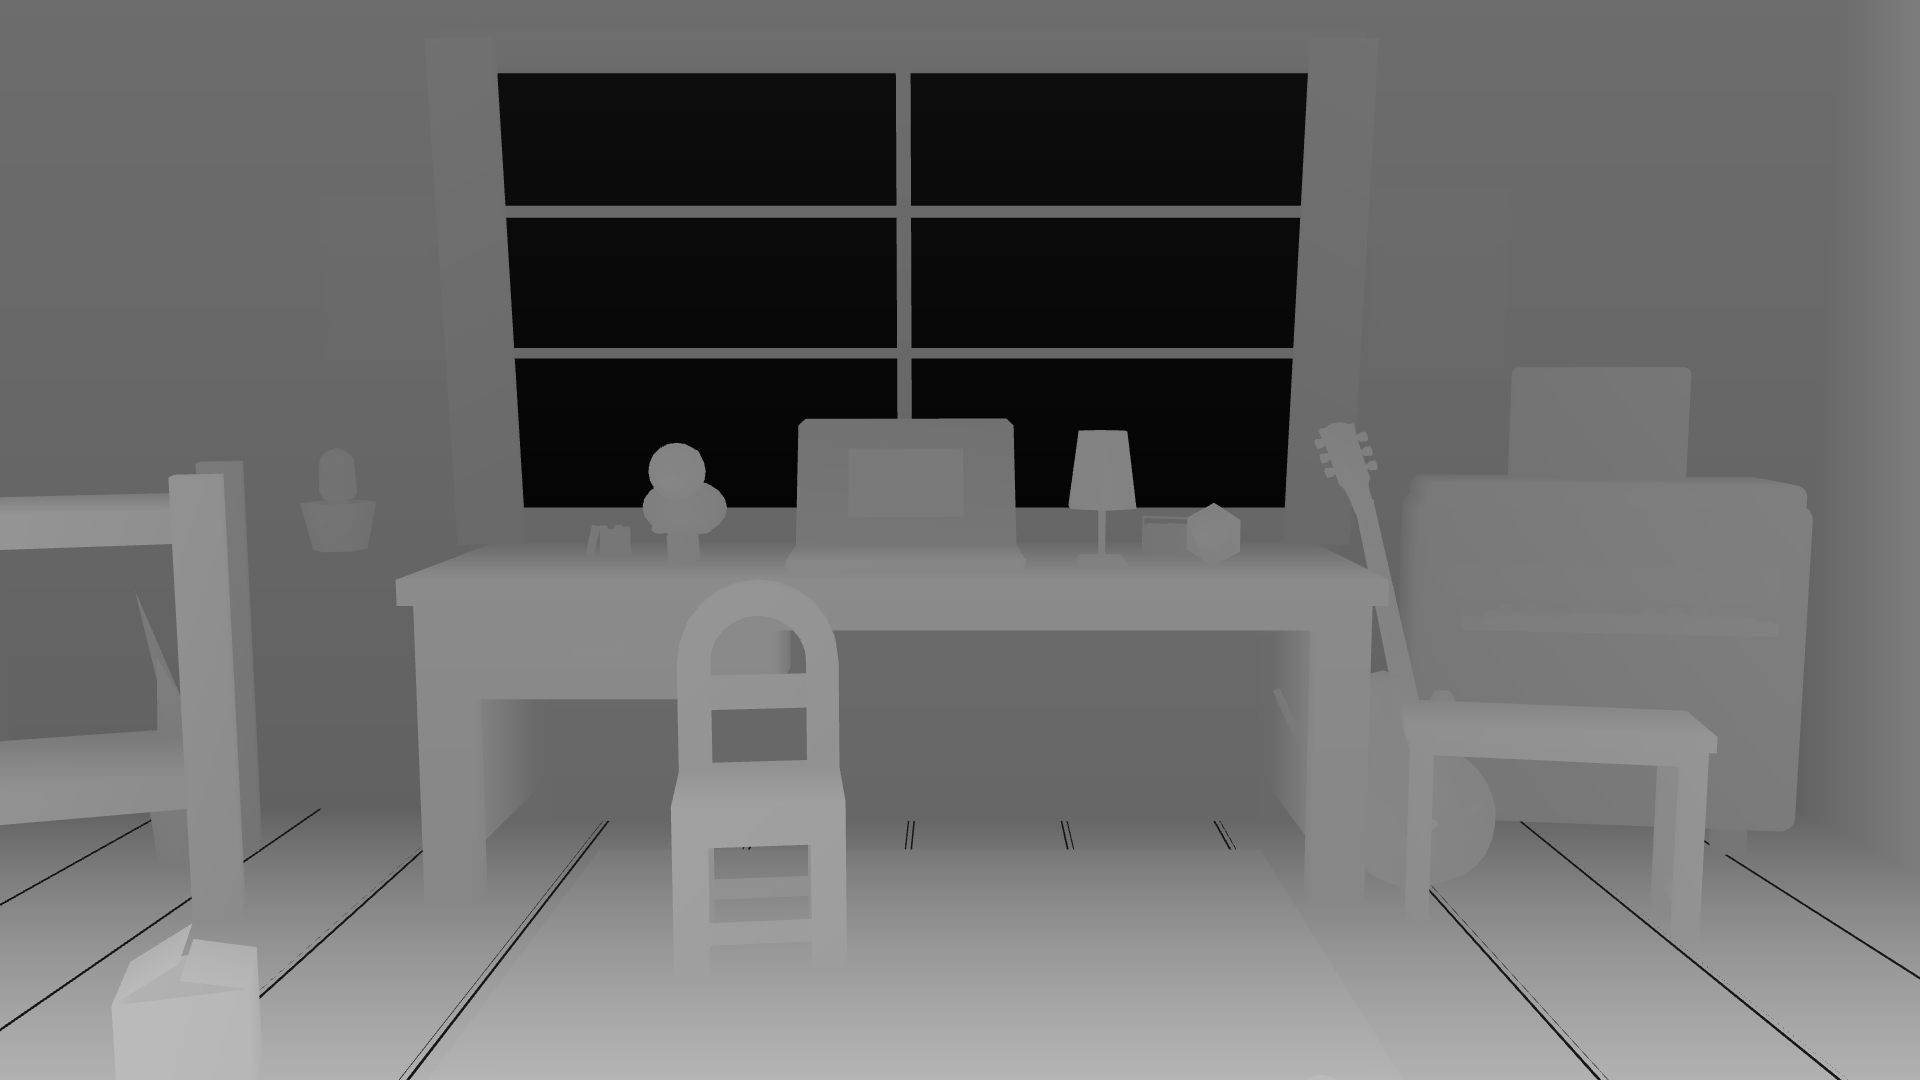
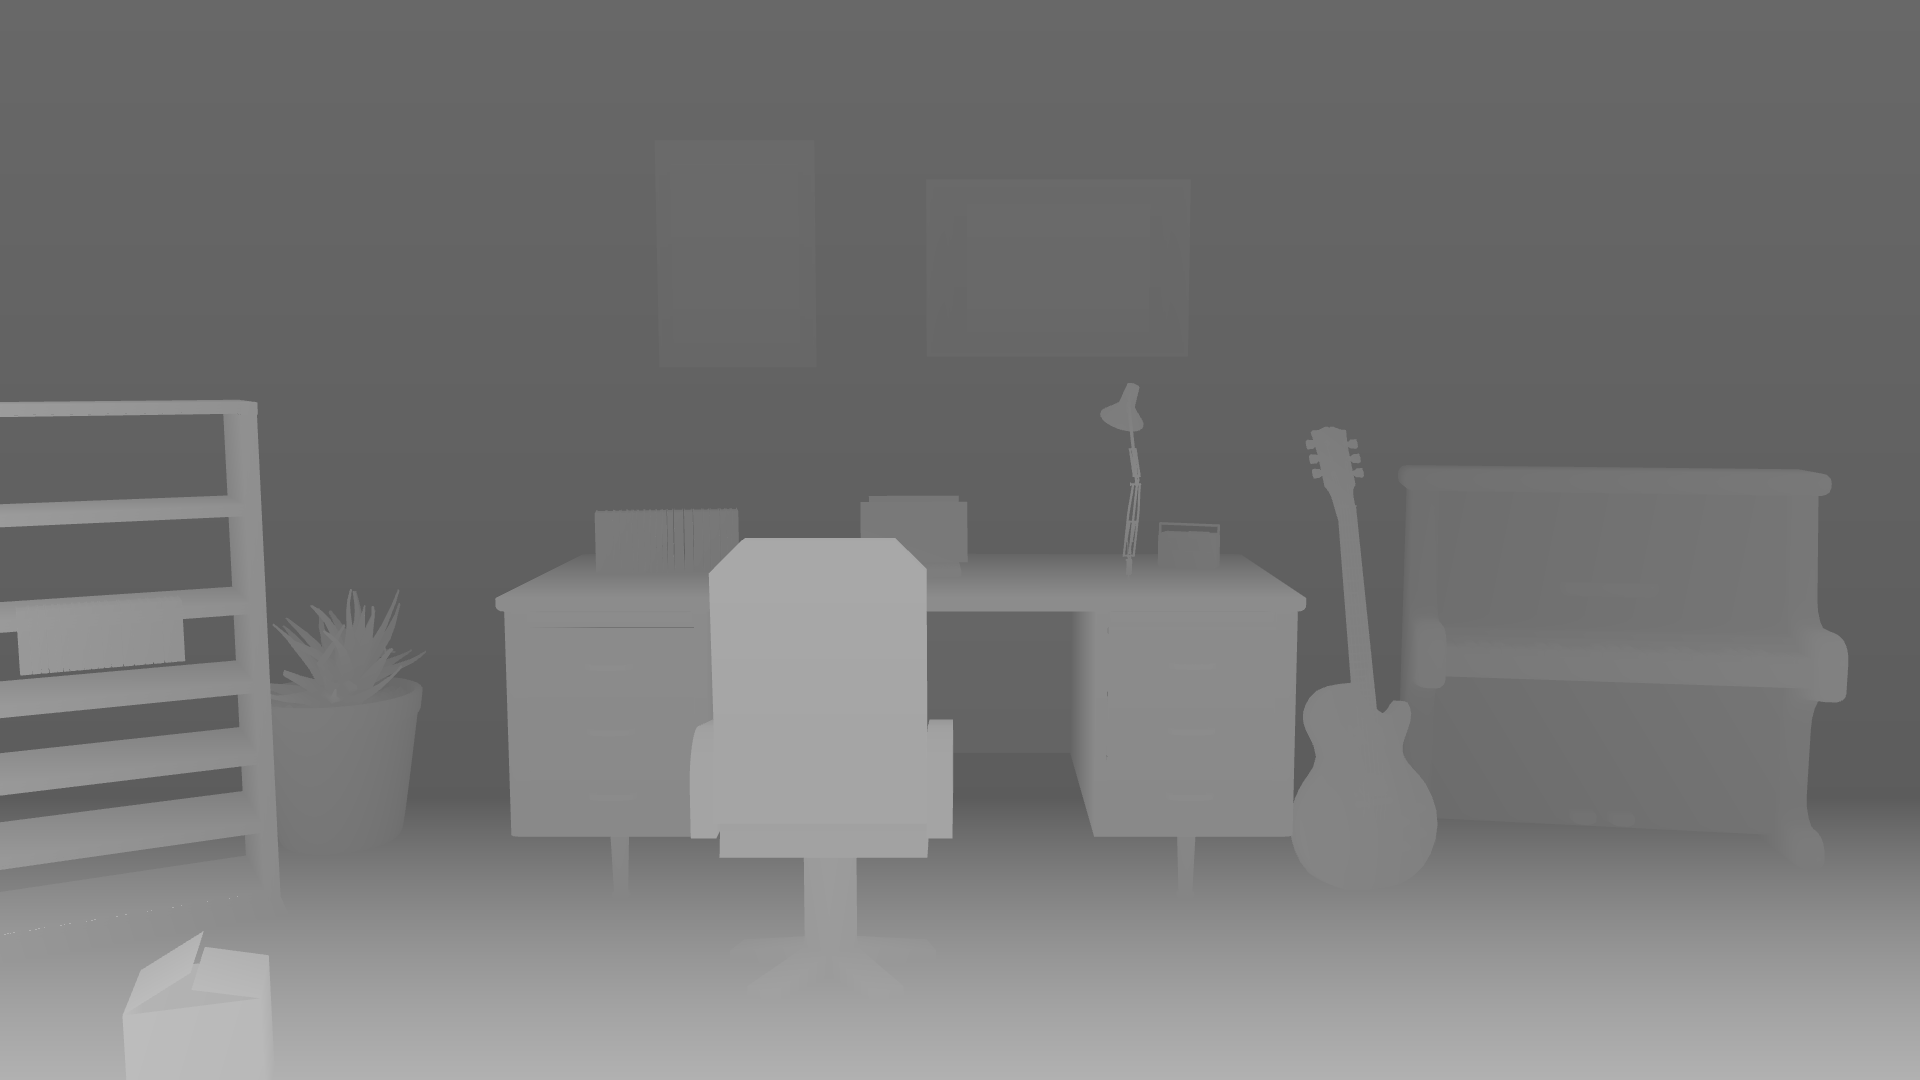
Affiche les cartes dans les cadres et recuit la tanière
La vitre des cadres masquait les cartes ; la chaise de bureau fait face au bureau, la lampe éclaire le mur.

diff --git a/src/den/DenScene.tsx b/src/den/DenScene.tsx
@@ -1,5 +1,5 @@
 import React, { useEffect, useLayoutEffect, useMemo, useRef, useState } from 'react';
-import { useCursor } from '@react-three/drei';
+import { useCursor, useTexture } from '@react-three/drei';
 import * as THREE from 'three';
 import { useLanguage } from '@/App';
 import CameraRig from './CameraRig';
@@ -27,6 +27,40 @@ const lampMat = (mat) => {
     mat.emissiveIntensity = 3.6;
     mat.toneMapped = false;
   }
+};
+
+const chairMat = (mat) => {
+  mat.roughness = `${mat.name || ''}`.toLowerCase().includes('metal') ? 0.28 : 0.72;
+  mat.metalness = `${mat.name || ''}`.toLowerCase().includes('metal') ? 0.55 : 0.02;
+};
+
+const WallMaps = ({ onHint, clearHint, onClick, hint }) => {
+  const [paris, france] = useTexture(['/assets/maps/paris.png', '/assets/maps/france.png']);
+  useEffect(() => {
+    [paris, france].forEach((tex) => {
+      tex.colorSpace = THREE.SRGBColorSpace;
+      tex.anisotropy = 8;
+      tex.flipY = true;
+    });
+  }, [paris, france]);
+  return (
+    <Hotspot hint={hint} onOver={onHint} onOut={clearHint} onClick={onClick}>
+      <group position={[-0.48, 1.62, WALL + 0.03]}>
+        <FramedMap url={PH.frameA} mapUrl="/assets/maps/france.png" height={0.64} />
+        <mesh position={[0, 0, 0.02]}>
+          <planeGeometry args={[0.36, 0.5]} />
+          <meshStandardMaterial map={france} roughness={0.88} metalness={0} />
+        </mesh>
+      </group>
+      <group position={[0.44, 1.58, WALL + 0.03]}>
+        <FramedMap url={PH.frameB} mapUrl="/assets/maps/paris.png" height={0.5} />
+        <mesh position={[0, 0, 0.02]}>
+          <planeGeometry args={[0.52, 0.36]} />
+          <meshStandardMaterial map={paris} roughness={0.88} metalness={0} />
+        </mesh>
+      </group>
+    </Hotspot>
+  );
 };
 
 const makeScreen = (titles) => {
@@ -164,18 +198,21 @@ const DenScene = ({ focus, setFocus, setHint, setPanel, onViewChange, bake }) =>
 
       <RoomShell />
 
-      <Hotspot
+      <WallMaps
         hint={t.den.maps}
-        onOver={hint}
-        onOut={clear}
+        onHint={hint}
+        clearHint={clear}
         onClick={() => setFocus(focus === 'maps' ? 'home' : 'maps')}
-      >
-        <FramedMap url={PH.frameA} mapUrl="/assets/maps/paris.png" height={0.58} position={[-0.52, 1.62, WALL + 0.03]} />
-        <FramedMap url={PH.frameB} mapUrl="/assets/maps/france.png" height={0.58} position={[0.4, 1.62, WALL + 0.03]} />
-      </Hotspot>
+      />
 
       <FitGLB url={PH.desk} height={0.76} width={1.92} position={[0.02, 0, WALL + 0.5]} />
-      <FitGLB url="/models/office-chair.glb" height={0.96} position={[-0.12, 0, WALL + 1.28]} rotation={[0, Math.PI, 0]} />
+      <FitGLB
+        url="/models/office-chair.glb"
+        height={0.96}
+        position={[-0.12, 0, WALL + 1.28]}
+        rotation={[0, Math.PI, 0]}
+        onMat={chairMat}
+      />
 
       <Laptop
         t={t}
@@ -194,11 +231,11 @@ const DenScene = ({ focus, setFocus, setHint, setPanel, onViewChange, bake }) =>
       </Hotspot>
 
       <Hotspot hint={t.den.diploma} onOver={hint} onOut={clear} onClick={() => setPanel('education')}>
-        <FitGLB url={PH.shelf} height={1.28} position={[-2.2, 0, WALL + 0.88]} rotation={[0, 0.42, 0]} />
+        <FitGLB url={PH.shelf} height={1.22} position={[-1.88, 0, WALL + 1.02]} rotation={[0, 0.55, 0]} />
       </Hotspot>
 
       <Hotspot hint={t.den.about} onOver={hint} onOut={clear} onClick={() => setPanel('about')}>
-        <FitGLB url={PH.plant} height={0.78} position={[-1.82, 0, WALL + 0.42]} />
+        <FitGLB url={PH.plant} height={0.72} position={[-1.55, 0, WALL + 0.38]} />
       </Hotspot>
 
       <Hotspot hint={t.den.mail} onOver={hint} onOut={clear} onClick={() => setPanel('contact')}>
@@ -232,7 +269,7 @@ const DenScene = ({ focus, setFocus, setHint, setPanel, onViewChange, bake }) =>
       </Hotspot>
 
       <Hotspot hint={t.den.lab} onOver={hint} onOut={clear} onClick={() => setPanel('experience')}>
-        <FitGLB url={PH.books} height={0.14} sit={false} position={[-2.05, 0.72, WALL + 0.95]} rotation={[0, 0.5, 0]} />
+        <FitGLB url={PH.books} height={0.14} sit={false} position={[-1.78, 0.7, WALL + 1.08]} rotation={[0, 0.55, 0]} />
       </Hotspot>
 
       <Hotspot hint={t.den.tools} onOver={hint} onOut={clear} onClick={() => onViewChange('utility')}>

diff --git a/src/den/KenneyProp.tsx b/src/den/KenneyProp.tsx
@@ -68,10 +68,19 @@ export const FramedMap = ({ url, mapUrl, height = 0.62, ...props }) => {
     mapTex.anisotropy = 8;
     const src = scene.clone(true);
     shadowize(src, (mat) => {
-      if (`${mat.name || ''}`.toLowerCase().includes('artwork')) {
+      const n = `${mat.name || ''}`.toLowerCase();
+      if (n.includes('glass')) {
+        mat.visible = false;
+        mat.opacity = 0;
+        mat.transparent = true;
+        mat.depthWrite = false;
+      }
+      if (n.includes('artwork')) {
         mat.map = mapTex;
-        mat.roughness = 0.88;
+        mat.color = new THREE.Color('#ffffff');
+        mat.roughness = 0.9;
         mat.metalness = 0;
+        mat.transparent = false;
         mat.needsUpdate = true;
       }
     });
@@ -113,7 +122,14 @@ export const RoomShell = () => {
     <>
       <mesh rotation={[-Math.PI / 2, 0, 0]} position={[0, 0, -0.05]} receiveShadow>
         <planeGeometry args={[6.2, 4.6]} />
-        <meshStandardMaterial map={floorD} normalMap={floorN} roughnessMap={floorA} roughness={0.78} metalness={0.04} />
+        <meshStandardMaterial
+          map={floorD}
+          normalMap={floorN}
+          normalScale={new THREE.Vector2(1.2, 1.2)}
+          roughnessMap={floorA}
+          roughness={0.72}
+          metalness={0.03}
+        />
       </mesh>
       <mesh position={[0, 1.28, -1.56]} receiveShadow>
         <planeGeometry args={[6.2, 2.56]} />

diff --git a/src/den/BakeCapture.tsx b/src/den/BakeCapture.tsx
@@ -24,14 +24,14 @@ void main() {
 
 const ANCHORS = {
   maps: [0, 1.62, -1.47],
-  diploma: [-2.15, 0.85, -0.62],
+  diploma: [-1.88, 0.8, -0.48],
   laptop: [0.04, 0.9, -1.0],
   guitar: [1.16, 0.7, -0.82],
   piano: [1.92, 0.55, -1.12],
-  about: [-1.82, 0.5, -1.08],
+  about: [-1.55, 0.45, -1.12],
   kit: [-0.62, 0.86, -1.08],
   mail: [0.78, 0.86, -1.14],
-  lab: [-2.05, 0.78, -0.55],
+  lab: [-1.78, 0.72, -0.42],
   tools: [-1.18, 0.2, 0.42],
 };
 
